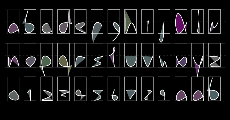
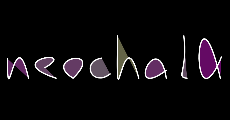
Almost DOne

Changed region(s): [[0.0304, 0.075, 1.0, 0.85]]

diff --git a/letters.js b/letters.js
@@ -1,14 +1,14 @@
 
 const alphabet = {
   "default": {
-  "x1": 40,
+  "x1": 20,
   "y1": 0,
-  "x2": 24,
-  "y2": -100,
-  "x3": -41,
-  "y3": 45,
-  "x4": 40,
-  "y4": -15,
+  "x2": 20,
+  "y2": 0,
+  "x3": 20,
+  "y3": 0,
+  "x4": 20,
+  "y4": 0,
   },
 
   "A": {
@@ -23,14 +23,14 @@ const alphabet = {
   },
 
   "B": {
-  "x1": -10,
+  "x1": -5,
   "y1": -38,
   "x2": 100,
   "y2": -46,
   "x3": -40,
   "y3": 75,
   "x4": 10,
-  "y4": -85,
+  "y4": -80,
   },
 
   "C": {
@@ -45,14 +45,14 @@ const alphabet = {
   },
 
   "D": {
-  "x1": 50,
+  "x1": 40,
   "y1": -36,
   "x2": -55,
   "y2": -63,
   "x3": 44,
   "y3": 87,
   "x4": 35,
-  "y4": -85,
+  "y4": -80,
   },
 
     "E": {
@@ -68,7 +68,7 @@ const alphabet = {
 
     "F": {
   "x1": 3,
-  "y1": 35,
+  "y1": 30,
   "x2": -7,
   "y2": -47,
   "x3": 24,
@@ -78,19 +78,19 @@ const alphabet = {
   },
 
       "G": {
-  "x1": 13,
+  "x1": 2,
   "y1": 30,
-  "x2": 91,
-  "y2": -34,
-  "x3": -33,
-  "y3": -74,
-  "x4": 40,
-  "y4": 0,
+  "x2": 78,
+  "y2": 51,
+  "x3": 20,
+  "y3": -110,
+  "x4": 2,
+  "y4": -1,
   },
 
       "H": {
   "x1": 0,
-  "y1": -85,
+  "y1": -80,
   "x2": -4,
   "y2": 120,
   "x3": 9,
@@ -103,22 +103,26 @@ const alphabet = {
   "x1": 20,
   "y1": 0,
   "x2": 16,
-  "y2": -45,
+  "y2": -32,
   "x3": 29,
   "y3": -50,
   "x4": 17,
-  "y4": -45,
+  "y4": -32,
+  "x5": 22,
+  "y5": -52,
   },
 
       "J": {
   "x1": 0,
   "y1": 22,
   "x2": 4,
-  "y2": 48,
+  "y2": 40,
   "x3": 21,
   "y3": 35,
   "x4": 14,
-  "y4": -40,
+  "y4": -35,
+  "x5": 14,
+  "y5": -52,
   },
 
       "K": {
@@ -140,7 +144,7 @@ const alphabet = {
   "x3": 29,
   "y3": -14,
   "x4": 21,
-  "y4": -85,
+  "y4": -80,
   },
 
       "M": {
@@ -177,25 +181,25 @@ const alphabet = {
   },
 
       "P": {
-  "x1": -10,
+  "x1": -3,
   "y1": -2,
   "x2": 100,
   "y2": 6,
-  "x3": -40,
-  "y3": -115,
-  "x4": 10,
-  "y4": 35,
+  "x3": -30,
+  "y3": -110,
+  "x4": 5,
+  "y4": 32,
   },
 
       "Q": {
-  "x1": 50,
+  "x1": 40,
   "y1": -4,
   "x2": -55,
   "y2": 23,
   "x3": 40,
-  "y3": -127,
+  "y3": -120,
   "x4": 35,
-  "y4": 35,
+  "y4": 32,
   },
 
       "R": {
@@ -277,7 +281,7 @@ const alphabet = {
 
       "Y": {
   "x1": 16,
-  "y1": 38,
+  "y1": 30,
   "x2": 56,
   "y2": -147,
   "x3": 36,
@@ -298,13 +302,13 @@ const alphabet = {
   },
 
         "0": {
-  "x1": 21,
+  "x1": 20,
   "y1": -37,
-  "x2": -46,
+  "x2": -48,
   "y2": -3,
-  "x3": 84,
+  "x3": 82,
   "y3": 24,
-  "x4": 22,
+  "x4": 20,
   "y4": -37,
   },
 
@@ -405,6 +409,45 @@ const alphabet = {
   "y3": -79,
   "x4": 20,
   "y4": -1,
+  },
+
+      "?": {
+  "x1": 20,
+  "y1": -20,
+  "x2": 62,
+  "y2": -85,
+  "x3": 10,
+  "y3": -100,
+  "x4": -1,
+  "y4": -65,
+  "x5": 20,
+  "y5": -2,
+  },
+
+      ".": {
+  "x1": 0,
+  "y1": -2,
+  "x2": 0,
+  "y2": -2,
+  "x3": 0,
+  "y3": -2,
+  "x4": 0,
+  "y4": -2,
+  "x5": 0,
+  "y5": -2
+  },
+
+      ",": {
+  "x1": -2,
+  "y1": 2,
+  "x2": 0,
+  "y2": -2,
+  "x3": 0,
+  "y3": -2,
+  "x4": 0,
+  "y4": -2,
+  "x5": 0,
+  "y5": -2
   }
 
 }

diff --git a/draw_letters.js b/draw_letters.js
@@ -9,7 +9,7 @@
 function drawLetter(letterData) {
   stroke(255);
   noFill();
-  rect(0, 0, 100, 200);
+  //rect(0, 0, 100, 200);
 
 
   strokeWeight(2.5);
@@ -26,15 +26,19 @@ function drawLetter(letterData) {
   let pos3y = posy + letterData["y3"];
   let pos4x = posx + letterData["x4"];
   let pos4y = posy + letterData["y4"];
-
+  let pos5x = posx + letterData["x5"];
+  let pos5y = posy + letterData["y5"];
 
   // draw two circles
   let col1 = map(pos1x, -150, 150, 0, 255);
   let col2 = map(pos2y, -150, 150, 0, 255);
   let col3 = map(pos3y, -150, 150, 0, 255);
 
-  fill(col1*1.6, col2*1.5, col3*1.9, 100);
+  fill(col1*5, col2*1, col3*1.9, 100);
   bezier(pos1x, pos1y, pos2x, pos2y, pos3x, pos3y, pos4x, pos4y);
+  strokeWeight(1);
+  fill(255);
+  ellipse(pos5x, pos5y, 3,3);
   pop();
 }
 
@@ -46,9 +50,11 @@ function interpolate_letter(percent, oldObj, newObj) {
   new_letter["x2"] = map(percent, 0 , 100, oldObj["x2"],  newObj["x2"]);
   new_letter["y2"] = map(percent, 0 , 100, oldObj["y2"],  newObj["y2"]);
   new_letter["x3"] = map(percent, 0 , 100, oldObj["x3"],  newObj["x3"]);
-  new_letter["y4"] = map(percent, 0 , 100, oldObj["y4"],  newObj["y4"]);
+  new_letter["y3"] = map(percent, 0 , 100, oldObj["y3"],  newObj["y3"]);
   new_letter["x4"] = map(percent, 0 , 100, oldObj["x4"],  newObj["x4"]);
   new_letter["y4"] = map(percent, 0 , 100, oldObj["y4"],  newObj["y4"]);
+  new_letter["x5"] = map(percent, 0 , 100, oldObj["x5"],  newObj["x5"]);
+  new_letter["y5"] = map(percent, 0 , 100, oldObj["y5"],  newObj["y5"]);
 
   return new_letter;
 

diff --git a/exhibition.js b/exhibition.js
@@ -1,8 +1,8 @@
 /*
  * Here are some things you can edit
  */
-const colorBack    = "#e3eded";
-const colorLines   = "#000090";
+const colorBack    = "#000000";
+const colorLines   = "#E5E5E3";
 
 /* 
  * do not edit this rest of this file, instead edit the letter
@@ -21,7 +21,7 @@ let soloNumAnimationFrames = 30;
 let soloCurAnimationFrame = 0;
 
 // Handy string of all letters available
-const letters = "ABCDEFGHIJKLMNOPQRSTUVWXYZ0123456789?";
+const letters = "ABCDEFGHIJKLMNOPQRSTUVWXYZ0123456789?,";
 
 let chosenLetters = [];
 let chosenPrevObjs = [null, null, null, null, null, null, null, null];
@@ -38,7 +38,7 @@ let secondsPerWord = 8;
 let curSwapWord = 0;
 
 var defaultSwapWords = [
-  "ACTUALLY",
+  "NEOCHALK",
   "1234567?",
   "EXPECTED",
   "PROPERTY",
@@ -215,7 +215,7 @@ function draw () {
   }
 
   background(colorBack);
-  fill(colorFront);
+  //fill(colorFront);
   stroke(95, 52, 8);
 
   // shorthand variables to allow margin

diff --git a/alphabet.js b/alphabet.js
@@ -13,7 +13,7 @@ const canvasWidth = 960;
 const canvasHeight = 500;
 
 // Handy string of all letters available
-const letters = "ABCDEFGHIJKLMNOPQRSTUVWXYZ0123456789?";
+const letters = "ABCDEFGHIJKLMNOPQRSTUVWXYZ0123456789?,.";
 
 function setup () {
   // create the drawing canvas, save the canvas element

diff --git a/interaction.js b/interaction.js
@@ -153,7 +153,7 @@ function draw () {
   }
 
   push();
-  translate(center_x, center_y);
+  translate(center_x, center_y-30);
   let cur_obj = computeCurrentSoloChar();
   drawLetter(cur_obj);
   pop();

diff --git a/README.md b/README.md
@@ -1,7 +1,8 @@
 ## PS2 MDDN 242 2018
 
-I've finished up the numbers so now all I need to do is fix the interaction. I don't really know what's wrong with it so I'll have to wait till next class. I'm sure I can tidy up some of the letters but I will do that if I have the time to after integrating the interaction section.
+Big Update
 
+I fixed my code and change the overall look of things, I liked how it looked before with the pinkish/purpely tones on the black background. I removed the white bounding boxes as I felt like they clashed with the stroke of my font. I've also grabbed the exhibition part and need to come up with some words I would like to display. I've added in a question mark, full stop and a comma for the last 3 spaces. 
 
 The eight parameters per letter:
 	* 'posx1' : X starting point of bezier
